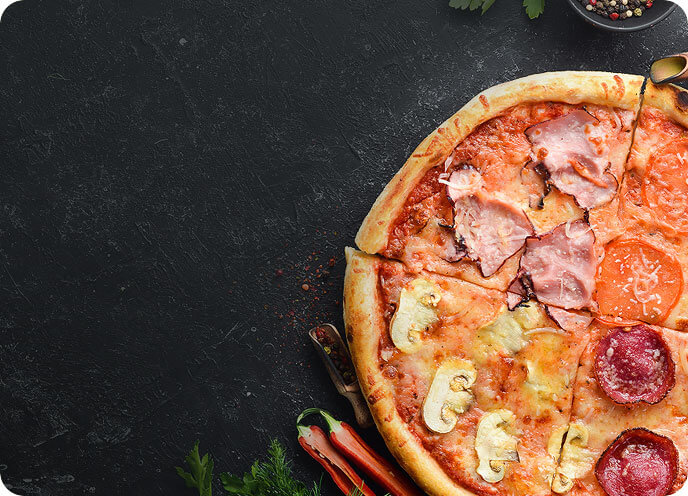
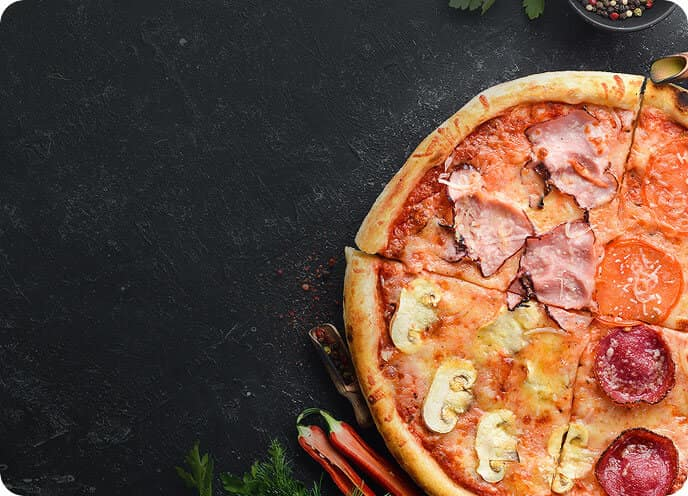
Optimize images for faster loading

diff --git a/index.html b/index.html
@@ -49,19 +49,19 @@
     <main>
         <section class="menu-categories" id="menu">
             <div class="category-item">
-                <img src="imgs/category-01.png" alt="" width="75" height="75">
+                <img src="imgs/category-01.webp" alt="" width="75" height="75">
                 <span class="category-name">Burger</span>
             </div>
             <div class="category-item">
-                <img src="imgs/category-02.png" alt="" width="75" height="75">
+                <img src="imgs/category-02.webp" alt="" width="75" height="75">
                 <span class="category-name">Sandwiches</span>
             </div>
             <div class="category-item">
-                <img src="imgs/category-03.png" alt="" width="75" height="75">
+                <img src="imgs/category-03.webp" alt="" width="75" height="75">
                 <span class="category-name">Beef Roll</span>
             </div>
             <div class="category-item">
-                <img src="imgs/category-04.png" alt="" width="75" height="75">
+                <img src="imgs/category-04.webp" alt="" width="75" height="75">
                 <span class="category-name">Wedges</span>
             </div>
         </section>
@@ -94,7 +94,7 @@
 
         <section class="about-section" id="about">
             <div class="about-image">
-                <img src="imgs/about-bg.png" alt="Assortment of American-style fast food" width="600" height="600"
+                <img src="imgs/about-bg.webp" alt="Assortment of American-style fast food" width="600" height="600"
                     loading="lazy">
             </div>
             <div class="about-text">
@@ -156,7 +156,7 @@
                 <p>Herb-marinated chicken breast served with seasoned potato wedges.</p>
             </div>
             <div class="dish-image">
-                <img src="imgs/dish-bg.png" alt="Chef's signature dish plated" width="600" height="600" loading="lazy">
+                <img src="imgs/dish-bg.webp" alt="Chef's signature dish plated" width="600" height="600" loading="lazy">
             </div>
         </section>
 
@@ -169,7 +169,7 @@
             <div class="recommended-cards">
                 <div class="recommended-card">
                     <div class="recommended-card-image">
-                        <img src="imgs/today-01.png" alt="Spaghetti Bolognese" width="300" height="300" loading="lazy">
+                        <img src="imgs/today-01.webp" alt="Spaghetti Bolognese" width="300" height="300" loading="lazy">
                     </div>
                     <div class="recommended-card-details">
                         <h3>Spaghetti Bolognese</h3>
@@ -180,7 +180,7 @@
                 </div>
                 <div class="recommended-card">
                     <div class="recommended-card-image">
-                        <img src="imgs/today-02.png" alt="Stuffed pizza" width="300" height="300" loading="lazy">
+                        <img src="imgs/today-02.webp" alt="Stuffed pizza" width="300" height="300" loading="lazy">
                     </div>
                     <div class="recommended-card-details">
                         <h3>Stuffed Pizza</h3>
@@ -191,7 +191,7 @@
                 </div>
                 <div class="recommended-card">
                     <div class="recommended-card-image">
-                        <img src="imgs/today-03.png" alt="Vanilla milkshake" width="300" height="300" loading="lazy">
+                        <img src="imgs/today-03.webp" alt="Vanilla milkshake" width="300" height="300" loading="lazy">
                     </div>
                     <div class="recommended-card-details">
                         <h3>Vanilla Milkshake</h3>
@@ -202,7 +202,7 @@
                 </div>
                 <div class="recommended-card">
                     <div class="recommended-card-image">
-                        <img src="imgs/today-04.png" alt="Italiano pizza" width="300" height="300" loading="lazy">
+                        <img src="imgs/today-04.webp" alt="Italiano pizza" width="300" height="300" loading="lazy">
                     </div>
                     <div class="recommended-card-details">
                         <h3>Italiano Pizza</h3>
@@ -213,7 +213,7 @@
                 </div>
                 <div class="recommended-card">
                     <div class="recommended-card-image">
-                        <img src="imgs/today-05.png" alt="Build your own burger" width="300" height="300"
+                        <img src="imgs/today-05.webp" alt="Build your own burger" width="300" height="300"
                             loading="lazy">
                     </div>
                     <div class="recommended-card-details">
@@ -225,7 +225,7 @@
                 </div>
                 <div class="recommended-card">
                     <div class="recommended-card-image">
-                        <img src="imgs/today-06.png" alt="Iced lemonade" width="300" height="300" loading="lazy">
+                        <img src="imgs/today-06.webp" alt="Iced lemonade" width="300" height="300" loading="lazy">
                     </div>
                     <div class="recommended-card-details">
                         <h3>Lemonade Ice Blue</h3>
@@ -309,7 +309,7 @@
                 </p>
             </div>
             <div class="delivery-image">
-                <img src="imgs/app-bg.png" alt="Mobile app for ordering food" width="400" height="600" loading="lazy">
+                <img src="imgs/app-bg.webp" alt="Mobile app for ordering food" width="400" height="600" loading="lazy">
             </div>
         </section>
 
